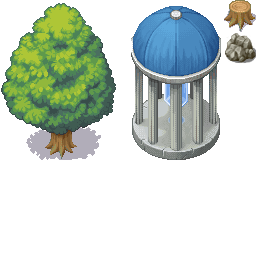
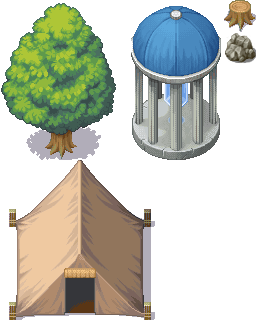
Entities

diff --git a/src/de/dakror/villagedefense/game/entity/Creature.java b/src/de/dakror/villagedefense/game/entity/Creature.java
@@ -1,0 +1,37 @@
+package de.dakror.villagedefense.game.entity;
+
+import java.awt.Graphics2D;
+import java.awt.Image;
+import java.awt.Rectangle;
+
+import de.dakror.villagedefense.game.Game;
+
+/**
+ * @author Dakror
+ */
+public class Creature extends Entity
+{
+	Image image;
+	
+	public Creature(int x, int y, String img)
+	{
+		super(x, y, Game.getImage("char/" + img + ".png").getWidth() / 4, Game.getImage("char/" + img + ".png").getHeight() / 4);
+		image = Game.getImage("char/" + img + ".png");
+		
+		setBump(new Rectangle((int) (width * 0.25f), (int) (height * 0.75f), (int) (width * 0.5f), (int) (height * 0.25f)));
+	}
+	
+	@Override
+	public void draw(Graphics2D g)
+	{
+		drawBump(g, false);
+		
+		g.drawImage(image, x, y, x + width, y + height, 0, 0, width, height, Game.w);
+		
+		drawBump(g, true);
+	}
+	
+	@Override
+	public void update()
+	{}
+}

diff --git a/src/de/dakror/villagedefense/game/world/World.java b/src/de/dakror/villagedefense/game/world/World.java
@@ -110,7 +110,7 @@ public class World extends EventListener implements Drawable
 			@Override
 			public int compare(Entity o1, Entity o2)
 			{
-				return o1.getY() - o2.getY();
+				return (o1.getY() + o1.getHeight()) - (o2.getY() + o2.getHeight());
 			}
 		});
 		
@@ -131,9 +131,8 @@ public class World extends EventListener implements Drawable
 			setTileId(i - x - 2, y + 4, Tile.ground.getId());
 		}
 		
-		render();
-		
 		addEntity(new Struct(x, y, Structs.CORE_HOUSE));
+		addEntity(new Struct(x - 5, y - 5, Structs.HOUSE));
 	}
 	
 	@Override
@@ -151,6 +150,8 @@ public class World extends EventListener implements Drawable
 	{
 		if (e instanceof Struct) ((Struct) e).placeGround(this);
 		entities.add(e);
+		
+		render();
 	}
 	
 	@Override

diff --git a/src/de/dakror/villagedefense/game/world/Chunk.java b/src/de/dakror/villagedefense/game/world/Chunk.java
@@ -65,11 +65,17 @@ public class Chunk
 				}
 			}
 		}
+		
+		// g.setColor(Color.red);
+		// g.drawRect(0, 0, SIZE * Tile.SIZE, SIZE * Tile.SIZE);
 	}
 	
 	public byte getTileId(int x, int y)
 	{
-		if (x < 0 || y < 0 || x >= SIZE || y >= SIZE) return Tile.emtpy.getId();
+		if (x < 0 || y < 0) return Tile.emtpy.getId();
+		
+		if (x >= SIZE) x -= this.x * SIZE;
+		if (y >= SIZE) y -= this.y * SIZE;
 		
 		return data[x][y];
 	}
@@ -82,7 +88,5 @@ public class Chunk
 	public void setTileId(int x, int y, byte d, World w)
 	{
 		data[x][y] = d;
-		
-		render(w);
 	}
 }

diff --git a/src/de/dakror/villagedefense/game/entity/Structs.java b/src/de/dakror/villagedefense/game/entity/Structs.java
@@ -7,8 +7,9 @@ import java.awt.geom.Rectangle2D;
  */
 public enum Structs
 {
-	CORE_HOUSE(4, 0, 3, 5, new Rectangle2D.Float(0, 3, 3, 2), true),
+	CORE_HOUSE(4, 0, 3, 5, new Rectangle2D.Float(0.1f, 3, 2.8f, 2), true),
 	TREE(0, 0, 4, 5, new Rectangle2D.Float(1.4f, 4.3f, 1, 0.6f), false),
+	HOUSE(0, 5, 5, 5, new Rectangle2D.Float(0.25f, 2f, 4.5f, 3f), true),
 	
 	;
 	
